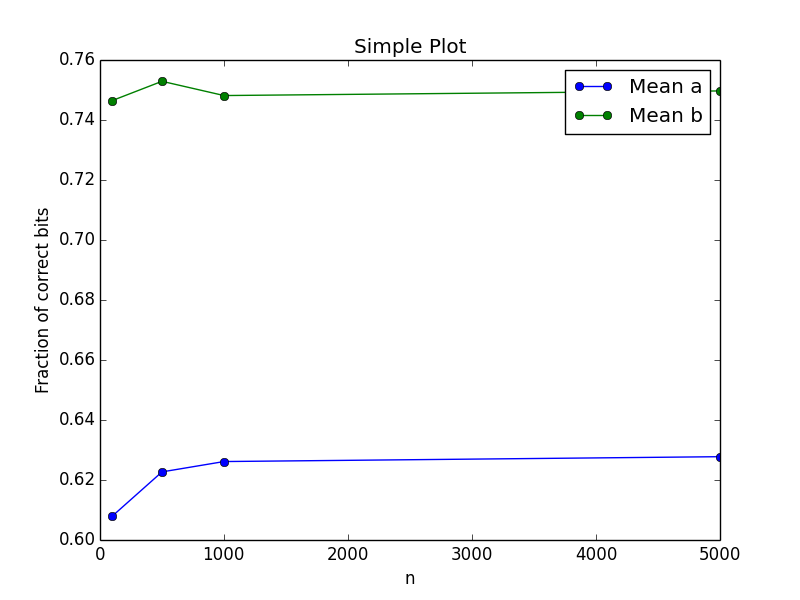
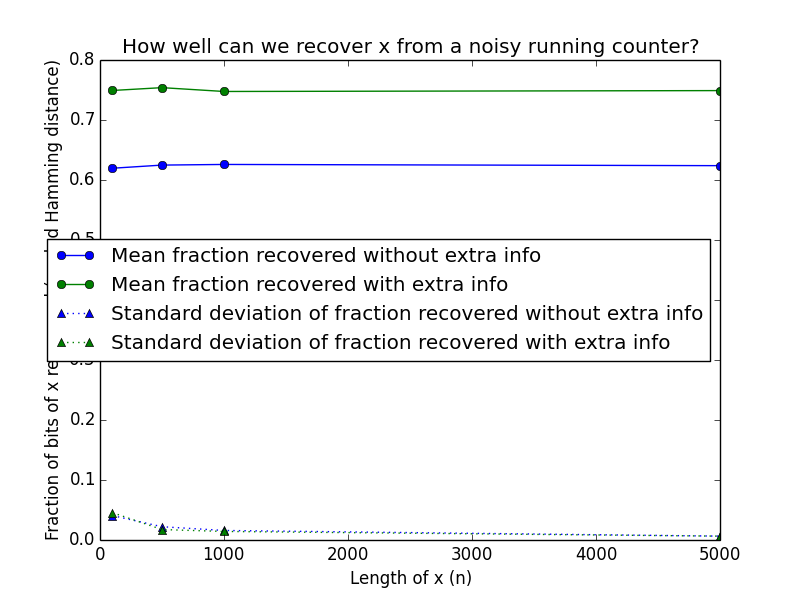
plotting functionality added

diff --git a/Hw1/one.py b/Hw1/one.py
@@ -1,76 +1,109 @@
 from common import hamming_dist
-from common import frac_correct
+from common import frac_incorrect
 from scipy.linalg import hadamard
 from scipy.linalg import lstsq
 from scipy.optimize import least_squares
 
 import numpy as np
+import math
+import matplotlib.pyplot as plt
 import sys
 
 
 def attack_had(a, n):
-	H = hadamard(n)
-	z = H * a
-	print "z: " + str(z)
-	x_hat = np.rint(z)
-	print "x_hat: " + str(x_hat)
-	return x_hat
+    H = hadamard(n)
+    z = H * a
+    x_hat = np.rint(z)
+    return x_hat
 
 
 def attack_rand(a, B, n):
-	z, _, _, _ = lstsq((1.0/float(n)) * B, a)
-	print "z: " + str(z)
-	x_hat = np.rint(z)
-	print "x_hat: " + str(x_hat)
-	return x_hat
+    z, _, _, _ = lstsq((1.0/float(n)) * B, a)
+    x_hat = np.rint(z)
+    return x_hat
 
 
 def generate_had(n, theta):
-	x = np.random.randint(2, size = (n, 1))
-	print "x: " + str(x)
-	H = hadamard(n)
-	Y = np.random.normal(0, theta*theta, (n, 1))
-	print "y: " + str(Y) 
-	a = (1.0/float(n)) * H * np.matrix(x) + Y	
-	print "a: " + str(a)
-	return a
+    x = np.random.randint(2, size = (n, 1))
+    H = hadamard(n)
+    Y = np.random.normal(0, theta*theta, (n, 1))
+    a = (1.0/float(n)) * H * np.matrix(x) + Y   
+    return (x, a)
 
 def generate_rand(n, m, theta):
-	x = np.random.randint(2, size = (n, 1))
-	print "x: " + str(x)
-	B = np.random.randint(2, size = (m, n))
-	print "B: " + str(B) 
-	Y = np.random.normal(0, theta*theta, (m, 1))
-	print "y: " + str(Y) 
-	a = (1.0/float(n)) * B * np.matrix(x) + Y	
-	print "a: " + str(a)
-	return (a, B)
+    x = np.random.randint(2, size = (n, 1))
+    B = np.random.randint(2, size = (m, n))
+    Y = np.random.normal(0, theta*theta, (m, 1))
+    a = (1.0/float(n)) * B * np.matrix(x) + Y   
+    return (x, a, B)
 
+def run_trials(trials, n, m, theta):
+    results_had = np.array([])
+    results_rand = np.array([])
+    for i in range(trials):
+        x_had, a_had = generate_had(n, theta)
+        x_hat_had = attack_had(a_had, n)
+        x_rand, a_rand, B = generate_rand(n, m, theta)
+        x_hat_rand = attack_rand(a_rand, B, n)
+        results_had = np.append(results_had, frac_incorrect(x_had, x_hat_had, n))
+        results_rand = np.append(results_rand, frac_incorrect(x_rand, x_hat_rand, n))
+    return (results_had, results_rand)
+
+def compute_stats(mean_had, mean_rand, std_had, std_rand, results_had, results_rand):
+    mean_had = np.append(mean_had, np.mean(results_had))
+    mean_rand = np.append(mean_rand, np.mean(results_rand))
+    std_had = np.append(std_had, np.std(results_had))
+    std_rand = np.append(std_rand, np.std(results_rand))
+    return (mean_had, mean_rand, std_had, std_rand)
+
+def plot_trials(dep_var, dep_label, mean_had, mean_rand, std_had, std_rand):
+    plt.plot(dep_var, mean_had, 'bo-', label='Mean for Hadamard')
+    plt.plot(dep_var, std_had, 'b^:', label='Standard deviationfor Hadamard')
+    plt.plot(dep_var, mean_rand, 'go-', label='Mean for Random')
+    plt.plot(dep_var, std_rand, 'g^:', label='Standard deviation for Random')
+    plt.xlabel(dep_label)
+    plt.ylabel('Fraction of bits of x incorrectly recovered')
+    plt.title("Hadamard vs. Random Query Attack as " + dep_label + " varies.")
+    plt.legend(loc='best')
+    plt.show()
 
 
 def main():
-    n = int(sys.argv[1])
-    theta = float(sys.argv[2])
-    m = int(sys.argv[3])
+    trials = 20
 
-    #a_had = generate_had(n, theta)
-    #x_hat_had = attack_had(a, n)
+    mean_had, mean_rand, std_had, std_rand = np.array([]), np.array([]), np.array([]), np.array([])
+    theta = 2**(-3)
+    #n_vals = [128, 512] # 2048, 8192]
 
-    a_rand, B = generate_rand(n, m, theta)
-    x_hat_rand = attack_rand(a_rand, B, n)
+    # Plot n as dependent variable
+    n_vals = [16, 32, 64]
+    for n in n_vals:
+        m = 4*n
+        results_had, results_rand = run_trials(trials, n, m, theta)
+        mean_had, mean_rand, std_had, std_rand = compute_stats(mean_had, mean_rand, std_had, std_rand, results_had, results_rand)
+    plot_trials(n_vals, "n", mean_had, mean_rand, std_had, std_rand)
 
+    # Plot m as dependent variable
+    mean_had, mean_rand, std_had, std_rand = np.array([]), np.array([]), np.array([]), np.array([])
+    n = 16
+    theta = 2**(-3)
+    m_vals = [int(1.1*n), 4*n, 16*n]
+    for m in m_vals:
+        results_had, results_rand = run_trials(trials, n, m, theta)
+        mean_had, mean_rand, std_had, std_rand = compute_stats(mean_had, mean_rand, std_had, std_rand, results_had, results_rand)
+    plot_trials(m_vals, "m", mean_had, mean_rand, std_had, std_rand)
 
-
-# n   |  m   |   theta   |  Had  |  Rand  
-# ---------------------------------------
-# 128. 1.1n.    2
-#
-# 512.   4n.    2^-1
-#
-# 2048. 16n.    2^-2
-# 
-# 8192.         2^-32n
-
+    # Plot theta as dependent variable
+    mean_had, mean_rand, std_had, std_rand = np.array([]), np.array([]), np.array([]), np.array([])
+    n = 16
+    m = 4*n
+    ln_theta_vals = [i for i in range(1, int(math.sqrt(32*n)) + 1)]
+    theta_vals = [2**(-i) for i in range(1, int(math.sqrt(32*n)) + 1)] 
+    for theta in theta_vals:
+        print str(theta)
+        results_had, results_rand = run_trials(trials, n, m, theta)
+        mean_had, mean_rand, std_had, std_rand = compute_stats(mean_had, mean_rand, std_had, std_rand, results_had, results_rand)
+    plot_trials(ln_theta_vals, "ln(theta)", mean_had, mean_rand, std_had, std_rand)
 
 
 

diff --git a/Hw1/two.py b/Hw1/two.py
@@ -105,14 +105,14 @@ def main():
         print "mean b: " + str(np.mean(results_b))
         print "stddev b: " + str(np.std(results_b))
 
-    plt.plot(n_vals, mean_a, 'bo-', label='Mean a')
-    plt.plot(n_vals, mean_b, 'go-', label='Mean b')
-
-    plt.xlabel('n')
-    plt.ylabel('Fraction of bits recovered')
-
-    plt.title("Simple Plot")
-    plt.legend()
+    plt.plot(n_vals, mean_a, 'bo-', label='Mean fraction recovered without extra info')
+    plt.plot(n_vals, mean_b, 'go-', label='Mean fraction recovered with extra info')
+    plt.plot(n_vals, std_a, 'b^:', label='Standard deviation of fraction recovered without extra info')
+    plt.plot(n_vals, std_b, 'g^:', label='Standard deviation of fraction recovered with extra info')
+    plt.xlabel('Length of x (n)')
+    plt.ylabel('Fraction of bits of x recovered')
+    plt.title("How well can we recover x from a noisy running counter?")
+    plt.legend(loc='best')
     plt.show()
 
 
